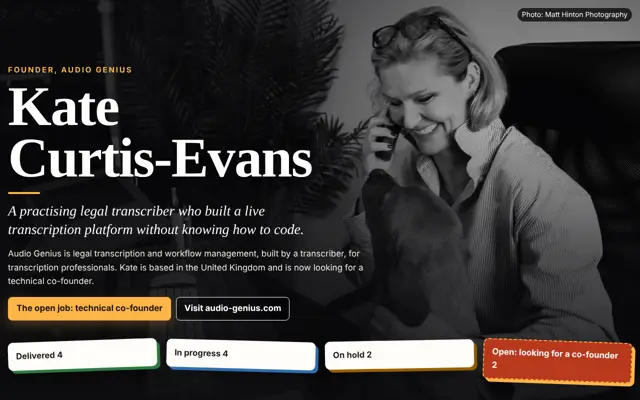
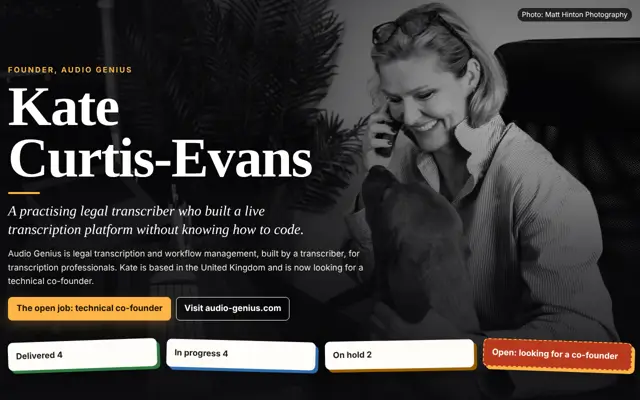
Round 8: even lanes, phone lanes open from their heading, readable tags, chooser pushes down
From design.b round 7 (Site__Agents__Design 2e92b96):
- board lanes stretch to equal height on desktop
- phones: Delivered, In progress and On hold collapse to their coloured
  heading, which opens the lane (CSS :target, no script); the open
  co-founder lane stays open
- tags, dates and captions 1rem in --fg; tag borders keep lane colour
- no "?" assignee on the open card; stray "2" removed from its heading
  and count
- the chooser panel opens in the flow and pushes the page down

Agent: kate-curtis-evans.b@SovereignWebsite.dinis
Claude-Session: https://claude.ai/code/session_01Kw9UwEREYzo2rPJ4cv4XVN

diff --git a/site/index.html b/site/index.html
@@ -171,17 +171,33 @@ main>section{max-width:80rem;margin-left:auto;margin-right:auto;padding-left:1re
   .family .family-narrow ul{flex-direction:column;gap:0;padding:0 1rem .4rem}
   .family .family-sep{margin-left:0}
 }
+
+/* round 8: even lanes, phone lanes open from their heading, readable small text */
+.board{align-items:stretch}
+.lane h3 a{color:inherit;text-decoration:none;display:flex;justify-content:space-between;align-items:center;width:100%;min-height:24px}
+.lane h3 a:focus-visible{outline:2px solid currentColor;outline-offset:3px}
+.tag{font-size:1rem;color:var(--fg)!important}
+.t-done{border-color:var(--lane-done)}.t-run{border-color:var(--lane-run)}.t-hold{border-color:var(--lane-hold)}.t-open{border-color:var(--lane-open)}
+.when,.boardh p,.photo figcaption,.src,blockquote footer{font-size:1rem;color:var(--fg)}
+#wanted .card::after{display:none}
+@media (max-width:40rem){
+  .lane:not(#wanted):not(:target) .cards{display:none}
+  .lane:not(#wanted):not(:target) h3{margin-bottom:-.9rem;border-radius:14px}
+  .lane:not(#wanted):not(:target) h3 a::after{content:"Show \25BE";font-size:.9rem;letter-spacing:0;text-transform:none;margin-left:auto;padding-left:.6rem}
+  .board{gap:1.1rem}
+}
 </style>
 <style>
 .pick{font:14px/1.4 system-ui,-apple-system,"Segoe UI",Roboto,sans-serif;background:#1c1b19;color:#f2eee6;border-bottom:1px solid #000;position:relative;z-index:20}
 .pick .pick-row{max-width:72rem;margin:0 auto;padding:.3rem 1rem;display:flex;flex-wrap:wrap;align-items:center;gap:.1rem .25rem}
 .pick a{color:#f2eee6;text-decoration:none}
-.pick summary{cursor:pointer;font-weight:650;min-height:28px;line-height:28px;padding:0 .7rem;border-radius:999px;background:#f2eee6;color:#1c1b19;margin-right:.4rem;list-style:none;white-space:nowrap}
+.pick summary{display:inline-block;cursor:pointer;font-weight:650;min-height:28px;line-height:28px;padding:0 .7rem;border-radius:999px;background:#f2eee6;color:#1c1b19;margin-right:.4rem;list-style:none;white-space:nowrap}
 .pick summary::-webkit-details-marker{display:none}
 .pick summary::after{content:" \25BE"}
 .pick details[open] summary::after{content:" \25B4"}
 .pick summary:focus-visible,.pick a:focus-visible{outline:2px solid #f2eee6;outline-offset:2px}
-.pick .pick-cards{position:absolute;left:0;right:0;top:100%;background:#1c1b19;border-bottom:1px solid #000;box-shadow:0 18px 40px rgba(0,0,0,.45);padding:1rem}
+.pick details[open]{flex-basis:100%}
+.pick .pick-cards{padding:1rem 0 .6rem}
 .pick .pick-cards ul{min-width:0;list-style:none;margin:0 auto;padding:0;max-width:72rem;display:grid;gap:.8rem;grid-template-columns:repeat(auto-fill,minmax(11.5rem,1fr))}
 .pick .pick-cards li{min-width:0}
 .pick .pick-cards a{display:block;border-radius:10px;padding:.5rem;background:#2a2824;border:2px solid transparent;height:100%}
@@ -192,7 +208,7 @@ main>section{max-width:80rem;margin-left:auto;margin-right:auto;padding-left:1re
 .pick .pick-cards span{display:block;margin:.1rem .2rem .2rem;color:#d8d2c6;font-size:13px}
 .pick .pick-all{max-width:72rem;margin:.8rem auto 0}.pick .pick-all a{text-decoration:underline;display:inline-block;min-height:24px;line-height:24px}
 .pick .pick-cards .now{color:#f2eee6;font-weight:650}
-@media (max-width:40rem){.pick .pick-cards ul{grid-template-columns:1fr 1fr}.pick .pick-cards{max-height:75vh;overflow-y:auto}}
+@media (max-width:40rem){.pick .pick-cards ul{grid-template-columns:1fr 1fr}}
 @media print{.pick{display:none}}
 </style>
 </head>
@@ -236,29 +252,29 @@ main>section{max-width:80rem;margin-left:auto;margin-right:auto;padding-left:1re
     <p>Audio Genius is legal transcription and workflow management, built by a transcriber, for transcription professionals. Kate is based in the United Kingdom and is now looking for a technical co-founder.</p>
     <div class="btns"><a class="btn main" href="#wanted">The open job: technical co-founder</a><a class="btn" href="https://audio-genius.com/">Visit audio-genius.com</a></div>
   </div>
-  <ul class="counts" aria-label="The board at a glance"><li><a href="#lane-done">Delivered 4</a></li><li><a href="#lane-run">In progress 4</a></li><li><a href="#lane-hold">On hold 2</a></li><li><a href="#wanted">Open: looking for a co-founder 2</a></li></ul>
+  <ul class="counts" aria-label="The board at a glance"><li><a href="#lane-done">Delivered 4</a></li><li><a href="#lane-run">In progress 4</a></li><li><a href="#lane-hold">On hold 2</a></li><li><a href="#wanted">Open: looking for a co-founder</a></li></ul>
 </header>
 
 <section aria-labelledby="board-h">
 <div class="boardh"><h2 id="board-h">Kate's work, as a workflow board</h2><p>Audio Genius manages transcription work. Here is Kate's own.</p></div>
 <div class="board">
-  <div class="lane" id="lane-done"><h3>Delivered <span>4</span></h3><ul class="cards">
+  <div class="lane" id="lane-done"><h3><a href="#lane-done">Delivered <span>4</span></a></h3><ul class="cards">
     <li class="card"><span class="tag t-done">Delivered</span><b>BA in European Business Studies</b>Brunel University of London.<span class=when>1992 to 1996</span></li>
     <li class="card"><span class="tag t-done">Delivered</span><b>Freelance Transcriber, Ubiqus</b><span class=when>2021 to 2022</span></li>
     <li class="card"><span class="tag t-done">Delivered</span><b>A 90-day beta</b><span class="n">50</span>testers.</li>
     <li class="card"><span class="tag t-done">Delivered</span><b>Launch in September</b><span class="n">34,000</span>minutes of audio transcribed since.</li>
   </ul></div>
-  <div class="lane" id="lane-run"><h3>In progress <span>4</span></h3><ul class="cards">
+  <div class="lane" id="lane-run"><h3><a href="#lane-run">In progress <span>4</span></a></h3><ul class="cards">
     <li class="card"><span class="tag t-run">Every day</span><b>Transcription Specialist (Legal and Professional)</b>Secure, human-led transcription for legal and professional clients, with confidential handling: no AI tools used for sensitive material.<span class=when>Mar 2021 to now</span></li>
     <li class="card"><span class="tag t-run">Every day</span><b>Legal Transcriber, eScribers</b>Professional legal transcription focused on accuracy, consistency and careful handling of sensitive material.<span class=when>2022 to now</span></li>
     <li class="card"><span class="tag t-run">In progress</span><b>Founder, Audio Genius</b>A secure transcription workspace designed to support professional transcription workflows. It now has paying users, and not one of those who signed up at the end of the beta has left.<span class=when>Nov 2025 to now</span></li>
     <li class="card"><span class="tag t-run">Comes first</span><b>Foundations: privacy and data protection</b>Working through what the platform holds and how long it keeps it, one decision at a time.</li>
   </ul></div>
-  <div class="lane" id="lane-hold"><h3>On hold, on purpose <span>2</span></h3><ul class="cards">
+  <div class="lane" id="lane-hold"><h3><a href="#lane-hold">On hold, on purpose <span>2</span></a></h3><ul class="cards">
     <li class="card"><span class="tag t-hold">On hold</span><b>Legal glossary</b>A feature Kate was looking forward to building.</li>
     <li class="card"><span class="tag t-hold">On hold</span><b>Template uploads</b>Paused so that the part nobody sees comes first.</li>
   </ul></div>
-  <div class="lane" id="wanted"><h3>Open: looking for a co-founder <span>2</span></h3><ul class="cards">
+  <div class="lane" id="wanted"><h3>Open: looking for a co-founder</h3><ul class="cards">
     <li class="card wanted"><span class="tag t-open">Open</span><b>Technical co-founder</b>
       <p>The platform Kate built Audio Genius on will not let Kate fork a test site from the live one, and gives her limited control over hosting and other parts of the build. She wants to own how it scales.</p>
       <p><strong>Kate brings</strong> the vision for the platform, direct access to users, research and results, and a strategy for expanding into corporates and organisations.</p>

diff --git a/site/designs/profile.html b/site/designs/profile.html
@@ -117,12 +117,13 @@ blockquote footer{font-family:var(--sans);font-size:.82rem;color:var(--soft);mar
 .pick{font:14px/1.4 system-ui,-apple-system,"Segoe UI",Roboto,sans-serif;background:#1c1b19;color:#f2eee6;border-bottom:1px solid #000;position:relative;z-index:20}
 .pick .pick-row{max-width:72rem;margin:0 auto;padding:.3rem 1rem;display:flex;flex-wrap:wrap;align-items:center;gap:.1rem .25rem}
 .pick a{color:#f2eee6;text-decoration:none}
-.pick summary{cursor:pointer;font-weight:650;min-height:28px;line-height:28px;padding:0 .7rem;border-radius:999px;background:#f2eee6;color:#1c1b19;margin-right:.4rem;list-style:none;white-space:nowrap}
+.pick summary{display:inline-block;cursor:pointer;font-weight:650;min-height:28px;line-height:28px;padding:0 .7rem;border-radius:999px;background:#f2eee6;color:#1c1b19;margin-right:.4rem;list-style:none;white-space:nowrap}
 .pick summary::-webkit-details-marker{display:none}
 .pick summary::after{content:" \25BE"}
 .pick details[open] summary::after{content:" \25B4"}
 .pick summary:focus-visible,.pick a:focus-visible{outline:2px solid #f2eee6;outline-offset:2px}
-.pick .pick-cards{position:absolute;left:0;right:0;top:100%;background:#1c1b19;border-bottom:1px solid #000;box-shadow:0 18px 40px rgba(0,0,0,.45);padding:1rem}
+.pick details[open]{flex-basis:100%}
+.pick .pick-cards{padding:1rem 0 .6rem}
 .pick .pick-cards ul{min-width:0;list-style:none;margin:0 auto;padding:0;max-width:72rem;display:grid;gap:.8rem;grid-template-columns:repeat(auto-fill,minmax(11.5rem,1fr))}
 .pick .pick-cards li{min-width:0}
 .pick .pick-cards a{display:block;border-radius:10px;padding:.5rem;background:#2a2824;border:2px solid transparent;height:100%}
@@ -133,7 +134,7 @@ blockquote footer{font-family:var(--sans);font-size:.82rem;color:var(--soft);mar
 .pick .pick-cards span{display:block;margin:.1rem .2rem .2rem;color:#d8d2c6;font-size:13px}
 .pick .pick-all{max-width:72rem;margin:.8rem auto 0}.pick .pick-all a{text-decoration:underline;display:inline-block;min-height:24px;line-height:24px}
 .pick .pick-cards .now{color:#f2eee6;font-weight:650}
-@media (max-width:40rem){.pick .pick-cards ul{grid-template-columns:1fr 1fr}.pick .pick-cards{max-height:75vh;overflow-y:auto}}
+@media (max-width:40rem){.pick .pick-cards ul{grid-template-columns:1fr 1fr}}
 @media print{.pick{display:none}}
 </style>
 </head>

diff --git a/site/designs/index.html b/site/designs/index.html
@@ -60,12 +60,13 @@ h1{font-family:var(--serif);font-size:clamp(2rem,6vw,3rem);line-height:1.1;margi
 .pick{font:14px/1.4 system-ui,-apple-system,"Segoe UI",Roboto,sans-serif;background:#1c1b19;color:#f2eee6;border-bottom:1px solid #000;position:relative;z-index:20}
 .pick .pick-row{max-width:72rem;margin:0 auto;padding:.3rem 1rem;display:flex;flex-wrap:wrap;align-items:center;gap:.1rem .25rem}
 .pick a{color:#f2eee6;text-decoration:none}
-.pick summary{cursor:pointer;font-weight:650;min-height:28px;line-height:28px;padding:0 .7rem;border-radius:999px;background:#f2eee6;color:#1c1b19;margin-right:.4rem;list-style:none;white-space:nowrap}
+.pick summary{display:inline-block;cursor:pointer;font-weight:650;min-height:28px;line-height:28px;padding:0 .7rem;border-radius:999px;background:#f2eee6;color:#1c1b19;margin-right:.4rem;list-style:none;white-space:nowrap}
 .pick summary::-webkit-details-marker{display:none}
 .pick summary::after{content:" \25BE"}
 .pick details[open] summary::after{content:" \25B4"}
 .pick summary:focus-visible,.pick a:focus-visible{outline:2px solid #f2eee6;outline-offset:2px}
-.pick .pick-cards{position:absolute;left:0;right:0;top:100%;background:#1c1b19;border-bottom:1px solid #000;box-shadow:0 18px 40px rgba(0,0,0,.45);padding:1rem}
+.pick details[open]{flex-basis:100%}
+.pick .pick-cards{padding:1rem 0 .6rem}
 .pick .pick-cards ul{min-width:0;list-style:none;margin:0 auto;padding:0;max-width:72rem;display:grid;gap:.8rem;grid-template-columns:repeat(auto-fill,minmax(11.5rem,1fr))}
 .pick .pick-cards li{min-width:0}
 .pick .pick-cards a{display:block;border-radius:10px;padding:.5rem;background:#2a2824;border:2px solid transparent;height:100%}
@@ -76,7 +77,7 @@ h1{font-family:var(--serif);font-size:clamp(2rem,6vw,3rem);line-height:1.1;margi
 .pick .pick-cards span{display:block;margin:.1rem .2rem .2rem;color:#d8d2c6;font-size:13px}
 .pick .pick-all{max-width:72rem;margin:.8rem auto 0}.pick .pick-all a{text-decoration:underline;display:inline-block;min-height:24px;line-height:24px}
 .pick .pick-cards .now{color:#f2eee6;font-weight:650}
-@media (max-width:40rem){.pick .pick-cards ul{grid-template-columns:1fr 1fr}.pick .pick-cards{max-height:75vh;overflow-y:auto}}
+@media (max-width:40rem){.pick .pick-cards ul{grid-template-columns:1fr 1fr}}
 @media print{.pick{display:none}}
 </style>
 </head>

diff --git a/site/designs/4.html b/site/designs/4.html
@@ -103,12 +103,13 @@ blockquote footer{font-family:var(--sans);font-size:.9rem;color:var(--muted)}
 .pick{font:14px/1.4 system-ui,-apple-system,"Segoe UI",Roboto,sans-serif;background:#1c1b19;color:#f2eee6;border-bottom:1px solid #000;position:relative;z-index:20}
 .pick .pick-row{max-width:72rem;margin:0 auto;padding:.3rem 1rem;display:flex;flex-wrap:wrap;align-items:center;gap:.1rem .25rem}
 .pick a{color:#f2eee6;text-decoration:none}
-.pick summary{cursor:pointer;font-weight:650;min-height:28px;line-height:28px;padding:0 .7rem;border-radius:999px;background:#f2eee6;color:#1c1b19;margin-right:.4rem;list-style:none;white-space:nowrap}
+.pick summary{display:inline-block;cursor:pointer;font-weight:650;min-height:28px;line-height:28px;padding:0 .7rem;border-radius:999px;background:#f2eee6;color:#1c1b19;margin-right:.4rem;list-style:none;white-space:nowrap}
 .pick summary::-webkit-details-marker{display:none}
 .pick summary::after{content:" \25BE"}
 .pick details[open] summary::after{content:" \25B4"}
 .pick summary:focus-visible,.pick a:focus-visible{outline:2px solid #f2eee6;outline-offset:2px}
-.pick .pick-cards{position:absolute;left:0;right:0;top:100%;background:#1c1b19;border-bottom:1px solid #000;box-shadow:0 18px 40px rgba(0,0,0,.45);padding:1rem}
+.pick details[open]{flex-basis:100%}
+.pick .pick-cards{padding:1rem 0 .6rem}
 .pick .pick-cards ul{min-width:0;list-style:none;margin:0 auto;padding:0;max-width:72rem;display:grid;gap:.8rem;grid-template-columns:repeat(auto-fill,minmax(11.5rem,1fr))}
 .pick .pick-cards li{min-width:0}
 .pick .pick-cards a{display:block;border-radius:10px;padding:.5rem;background:#2a2824;border:2px solid transparent;height:100%}
@@ -119,7 +120,7 @@ blockquote footer{font-family:var(--sans);font-size:.9rem;color:var(--muted)}
 .pick .pick-cards span{display:block;margin:.1rem .2rem .2rem;color:#d8d2c6;font-size:13px}
 .pick .pick-all{max-width:72rem;margin:.8rem auto 0}.pick .pick-all a{text-decoration:underline;display:inline-block;min-height:24px;line-height:24px}
 .pick .pick-cards .now{color:#f2eee6;font-weight:650}
-@media (max-width:40rem){.pick .pick-cards ul{grid-template-columns:1fr 1fr}.pick .pick-cards{max-height:75vh;overflow-y:auto}}
+@media (max-width:40rem){.pick .pick-cards ul{grid-template-columns:1fr 1fr}}
 @media print{.pick{display:none}}
 </style>
 </head>

diff --git a/site/designs/newsroom.html b/site/designs/newsroom.html
@@ -117,12 +117,13 @@ h1{font-family:var(--serif);font-weight:700;margin:0}
 .pick{font:14px/1.4 system-ui,-apple-system,"Segoe UI",Roboto,sans-serif;background:#1c1b19;color:#f2eee6;border-bottom:1px solid #000;position:relative;z-index:20}
 .pick .pick-row{max-width:72rem;margin:0 auto;padding:.3rem 1rem;display:flex;flex-wrap:wrap;align-items:center;gap:.1rem .25rem}
 .pick a{color:#f2eee6;text-decoration:none}
-.pick summary{cursor:pointer;font-weight:650;min-height:28px;line-height:28px;padding:0 .7rem;border-radius:999px;background:#f2eee6;color:#1c1b19;margin-right:.4rem;list-style:none;white-space:nowrap}
+.pick summary{display:inline-block;cursor:pointer;font-weight:650;min-height:28px;line-height:28px;padding:0 .7rem;border-radius:999px;background:#f2eee6;color:#1c1b19;margin-right:.4rem;list-style:none;white-space:nowrap}
 .pick summary::-webkit-details-marker{display:none}
 .pick summary::after{content:" \25BE"}
 .pick details[open] summary::after{content:" \25B4"}
 .pick summary:focus-visible,.pick a:focus-visible{outline:2px solid #f2eee6;outline-offset:2px}
-.pick .pick-cards{position:absolute;left:0;right:0;top:100%;background:#1c1b19;border-bottom:1px solid #000;box-shadow:0 18px 40px rgba(0,0,0,.45);padding:1rem}
+.pick details[open]{flex-basis:100%}
+.pick .pick-cards{padding:1rem 0 .6rem}
 .pick .pick-cards ul{min-width:0;list-style:none;margin:0 auto;padding:0;max-width:72rem;display:grid;gap:.8rem;grid-template-columns:repeat(auto-fill,minmax(11.5rem,1fr))}
 .pick .pick-cards li{min-width:0}
 .pick .pick-cards a{display:block;border-radius:10px;padding:.5rem;background:#2a2824;border:2px solid transparent;height:100%}
@@ -133,7 +134,7 @@ h1{font-family:var(--serif);font-weight:700;margin:0}
 .pick .pick-cards span{display:block;margin:.1rem .2rem .2rem;color:#d8d2c6;font-size:13px}
 .pick .pick-all{max-width:72rem;margin:.8rem auto 0}.pick .pick-all a{text-decoration:underline;display:inline-block;min-height:24px;line-height:24px}
 .pick .pick-cards .now{color:#f2eee6;font-weight:650}
-@media (max-width:40rem){.pick .pick-cards ul{grid-template-columns:1fr 1fr}.pick .pick-cards{max-height:75vh;overflow-y:auto}}
+@media (max-width:40rem){.pick .pick-cards ul{grid-template-columns:1fr 1fr}}
 @media print{.pick{display:none}}
 </style>
 </head>

diff --git a/site/designs/2.html b/site/designs/2.html
@@ -194,12 +194,13 @@ blockquote footer{font-family:var(--sans)}
 .pick{font:14px/1.4 system-ui,-apple-system,"Segoe UI",Roboto,sans-serif;background:#1c1b19;color:#f2eee6;border-bottom:1px solid #000;position:relative;z-index:20}
 .pick .pick-row{max-width:72rem;margin:0 auto;padding:.3rem 1rem;display:flex;flex-wrap:wrap;align-items:center;gap:.1rem .25rem}
 .pick a{color:#f2eee6;text-decoration:none}
-.pick summary{cursor:pointer;font-weight:650;min-height:28px;line-height:28px;padding:0 .7rem;border-radius:999px;background:#f2eee6;color:#1c1b19;margin-right:.4rem;list-style:none;white-space:nowrap}
+.pick summary{display:inline-block;cursor:pointer;font-weight:650;min-height:28px;line-height:28px;padding:0 .7rem;border-radius:999px;background:#f2eee6;color:#1c1b19;margin-right:.4rem;list-style:none;white-space:nowrap}
 .pick summary::-webkit-details-marker{display:none}
 .pick summary::after{content:" \25BE"}
 .pick details[open] summary::after{content:" \25B4"}
 .pick summary:focus-visible,.pick a:focus-visible{outline:2px solid #f2eee6;outline-offset:2px}
-.pick .pick-cards{position:absolute;left:0;right:0;top:100%;background:#1c1b19;border-bottom:1px solid #000;box-shadow:0 18px 40px rgba(0,0,0,.45);padding:1rem}
+.pick details[open]{flex-basis:100%}
+.pick .pick-cards{padding:1rem 0 .6rem}
 .pick .pick-cards ul{min-width:0;list-style:none;margin:0 auto;padding:0;max-width:72rem;display:grid;gap:.8rem;grid-template-columns:repeat(auto-fill,minmax(11.5rem,1fr))}
 .pick .pick-cards li{min-width:0}
 .pick .pick-cards a{display:block;border-radius:10px;padding:.5rem;background:#2a2824;border:2px solid transparent;height:100%}
@@ -210,7 +211,7 @@ blockquote footer{font-family:var(--sans)}
 .pick .pick-cards span{display:block;margin:.1rem .2rem .2rem;color:#d8d2c6;font-size:13px}
 .pick .pick-all{max-width:72rem;margin:.8rem auto 0}.pick .pick-all a{text-decoration:underline;display:inline-block;min-height:24px;line-height:24px}
 .pick .pick-cards .now{color:#f2eee6;font-weight:650}
-@media (max-width:40rem){.pick .pick-cards ul{grid-template-columns:1fr 1fr}.pick .pick-cards{max-height:75vh;overflow-y:auto}}
+@media (max-width:40rem){.pick .pick-cards ul{grid-template-columns:1fr 1fr}}
 @media print{.pick{display:none}}
 </style>
 </head>

diff --git a/site/designs/1.html b/site/designs/1.html
@@ -117,12 +117,13 @@ h2{font:inherit;margin:0}
 .pick{font:14px/1.4 system-ui,-apple-system,"Segoe UI",Roboto,sans-serif;background:#1c1b19;color:#f2eee6;border-bottom:1px solid #000;position:relative;z-index:20}
 .pick .pick-row{max-width:72rem;margin:0 auto;padding:.3rem 1rem;display:flex;flex-wrap:wrap;align-items:center;gap:.1rem .25rem}
 .pick a{color:#f2eee6;text-decoration:none}
-.pick summary{cursor:pointer;font-weight:650;min-height:28px;line-height:28px;padding:0 .7rem;border-radius:999px;background:#f2eee6;color:#1c1b19;margin-right:.4rem;list-style:none;white-space:nowrap}
+.pick summary{display:inline-block;cursor:pointer;font-weight:650;min-height:28px;line-height:28px;padding:0 .7rem;border-radius:999px;background:#f2eee6;color:#1c1b19;margin-right:.4rem;list-style:none;white-space:nowrap}
 .pick summary::-webkit-details-marker{display:none}
 .pick summary::after{content:" \25BE"}
 .pick details[open] summary::after{content:" \25B4"}
 .pick summary:focus-visible,.pick a:focus-visible{outline:2px solid #f2eee6;outline-offset:2px}
-.pick .pick-cards{position:absolute;left:0;right:0;top:100%;background:#1c1b19;border-bottom:1px solid #000;box-shadow:0 18px 40px rgba(0,0,0,.45);padding:1rem}
+.pick details[open]{flex-basis:100%}
+.pick .pick-cards{padding:1rem 0 .6rem}
 .pick .pick-cards ul{min-width:0;list-style:none;margin:0 auto;padding:0;max-width:72rem;display:grid;gap:.8rem;grid-template-columns:repeat(auto-fill,minmax(11.5rem,1fr))}
 .pick .pick-cards li{min-width:0}
 .pick .pick-cards a{display:block;border-radius:10px;padding:.5rem;background:#2a2824;border:2px solid transparent;height:100%}
@@ -133,7 +134,7 @@ h2{font:inherit;margin:0}
 .pick .pick-cards span{display:block;margin:.1rem .2rem .2rem;color:#d8d2c6;font-size:13px}
 .pick .pick-all{max-width:72rem;margin:.8rem auto 0}.pick .pick-all a{text-decoration:underline;display:inline-block;min-height:24px;line-height:24px}
 .pick .pick-cards .now{color:#f2eee6;font-weight:650}
-@media (max-width:40rem){.pick .pick-cards ul{grid-template-columns:1fr 1fr}.pick .pick-cards{max-height:75vh;overflow-y:auto}}
+@media (max-width:40rem){.pick .pick-cards ul{grid-template-columns:1fr 1fr}}
 @media print{.pick{display:none}}
 </style>
 </head>

diff --git a/site/designs/5.html b/site/designs/5.html
@@ -79,12 +79,13 @@ li{margin:0 0 .35rem}
 .pick{font:14px/1.4 system-ui,-apple-system,"Segoe UI",Roboto,sans-serif;background:#1c1b19;color:#f2eee6;border-bottom:1px solid #000;position:relative;z-index:20}
 .pick .pick-row{max-width:72rem;margin:0 auto;padding:.3rem 1rem;display:flex;flex-wrap:wrap;align-items:center;gap:.1rem .25rem}
 .pick a{color:#f2eee6;text-decoration:none}
-.pick summary{cursor:pointer;font-weight:650;min-height:28px;line-height:28px;padding:0 .7rem;border-radius:999px;background:#f2eee6;color:#1c1b19;margin-right:.4rem;list-style:none;white-space:nowrap}
+.pick summary{display:inline-block;cursor:pointer;font-weight:650;min-height:28px;line-height:28px;padding:0 .7rem;border-radius:999px;background:#f2eee6;color:#1c1b19;margin-right:.4rem;list-style:none;white-space:nowrap}
 .pick summary::-webkit-details-marker{display:none}
 .pick summary::after{content:" \25BE"}
 .pick details[open] summary::after{content:" \25B4"}
 .pick summary:focus-visible,.pick a:focus-visible{outline:2px solid #f2eee6;outline-offset:2px}
-.pick .pick-cards{position:absolute;left:0;right:0;top:100%;background:#1c1b19;border-bottom:1px solid #000;box-shadow:0 18px 40px rgba(0,0,0,.45);padding:1rem}
+.pick details[open]{flex-basis:100%}
+.pick .pick-cards{padding:1rem 0 .6rem}
 .pick .pick-cards ul{min-width:0;list-style:none;margin:0 auto;padding:0;max-width:72rem;display:grid;gap:.8rem;grid-template-columns:repeat(auto-fill,minmax(11.5rem,1fr))}
 .pick .pick-cards li{min-width:0}
 .pick .pick-cards a{display:block;border-radius:10px;padding:.5rem;background:#2a2824;border:2px solid transparent;height:100%}
@@ -95,7 +96,7 @@ li{margin:0 0 .35rem}
 .pick .pick-cards span{display:block;margin:.1rem .2rem .2rem;color:#d8d2c6;font-size:13px}
 .pick .pick-all{max-width:72rem;margin:.8rem auto 0}.pick .pick-all a{text-decoration:underline;display:inline-block;min-height:24px;line-height:24px}
 .pick .pick-cards .now{color:#f2eee6;font-weight:650}
-@media (max-width:40rem){.pick .pick-cards ul{grid-template-columns:1fr 1fr}.pick .pick-cards{max-height:75vh;overflow-y:auto}}
+@media (max-width:40rem){.pick .pick-cards ul{grid-template-columns:1fr 1fr}}
 @media print{.pick{display:none}}
 </style>
 </head>
